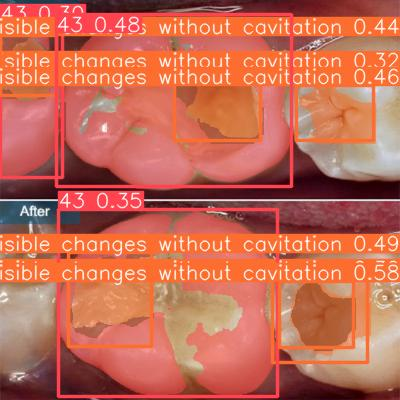
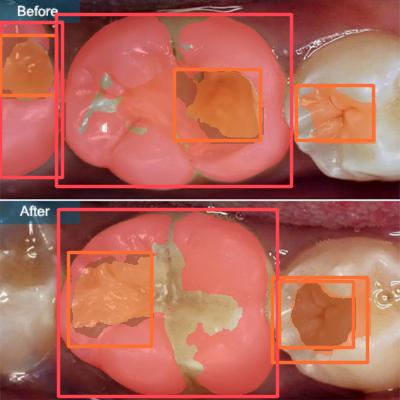
Done with the minor changes in the GUI

Changed region(s): [[0.0, 0.0, 1.0, 0.24], [0.0, 0.57, 1.0, 0.72], [0.12, 0.45, 0.36, 0.54]]

diff --git a/app.py b/app.py
@@ -107,6 +107,9 @@ if source_radio == settings.IMAGE:
                 res_plotted = res[0].plot()[:, :, ::-1]
                 st.image(res_plotted, caption='Detected Image',
                          use_column_width=True)
+                res = model.predict(uploaded_image, conf=confidence)
+                boxes = res[0].boxes
+                res_plotted = res[0].plot(labels=False)[:, :, ::-1]
                 st.session_state.img_file = Image.fromarray(res_plotted)  # Update session state with detected image
                 st.session_state.img_file.save("detected_image.jpg")
                 Image.open("detected_image.jpg")
@@ -165,11 +168,12 @@ if source_radio == settings.IMAGE:
                 st.write("Predicted Image:")
                 st.image(img_file, width=300)
 
+                st.write("Edit Bounding Boxes:")
                 # Cropping using Streamlit cropper tool
                 st.session_state.cropped_img = st_cropper(
                     img_file, realtime_update=realtime_update, box_color=box_color, aspect_ratio=aspect_ratio)
                 st.write("Cropped Image Preview:")
-                st.image(st.session_state.cropped_img, width=500)
+                st.image(st.session_state.cropped_img, width=300)
 
                 # Input for label
                 st.session_state.label = st.text_input("Enter Label for the bounding box and then hit enter:", st.session_state.label)
